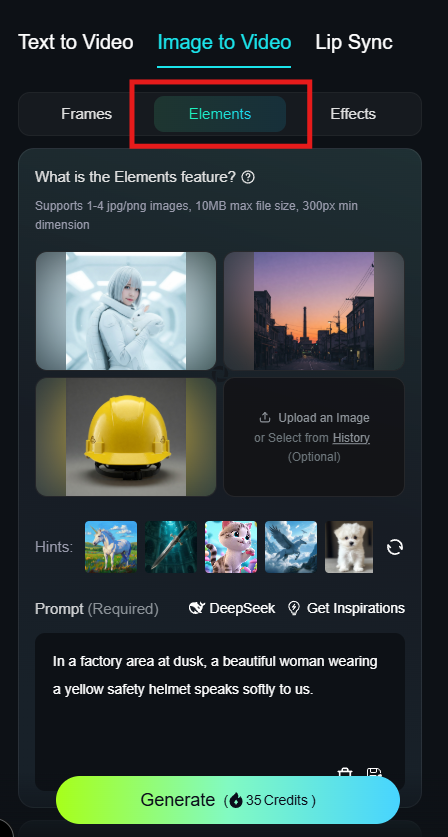
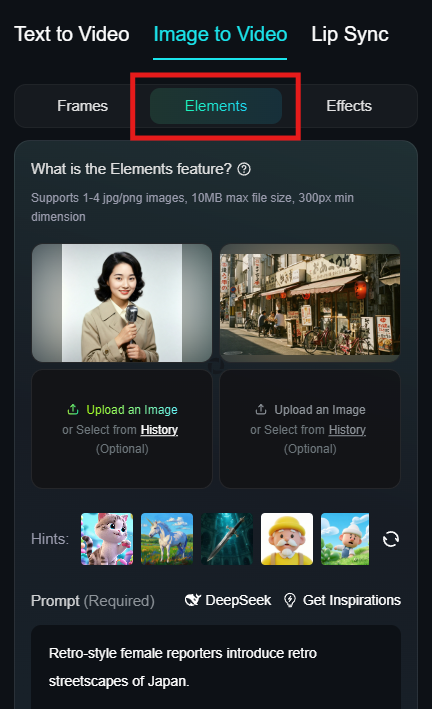
Elements機能更新

diff --git a/articles/turtle-20240916-klingai.md b/articles/turtle-20240916-klingai.md
@@ -528,7 +528,7 @@ https://www.youtube.com/watch?v=fYUqur4M_V4
 - BoomBoom
   - まるで風船のように膨らみ、膨張します。
 
-以下に、「Fuzzy Fuzzy」で生成した動画の一例を示します。
+以下に、「FuzzyFuzzy」で生成した動画の一例を示します。
 
 https://www.youtube.com/watch?v=262xnKkywbE
 
@@ -536,11 +536,16 @@ https://www.youtube.com/watch?v=262xnKkywbE
 
 最大4枚の画像をアップロードすることで、それらを動画の構成要素としてAIに認識させることができる機能です。
 例えば、キャラクターや背景などの画像をアップロードし、テキストプロンプトで動きや関係性を指示することで、AIがこれらの要素を取り入れた動画を生成します。
+まずは少ない枚数から試してみるのがおすすめです。また、使用する画像もその画像が何を表現しているか、AIが認識しやすいものを使用すると良さそうです。
 
 ![](/images/turtle-20240916-klingai/elements.png =300x)
 *Elementsの選択*
 
-まだ私も十分に使いこなせておりませんが、キャラクターの見た目を一貫させたり、複数の要素を自然に動かしたりする際に活用できるようです。
+以下に、「Elements」で生成した動画の一例を示します。
+
+Elementsの選択で示した、2つの画像を用意して、「Retro-style female reporters introduce retro streetscapes of Japan.」というシンプルなプロンプトを入力します。
+
+https://www.youtube.com/watch?v=PXxSydniP2A
 
 以上で、Kling AIアップデートの説明は終わりです。
 
